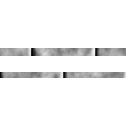
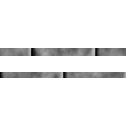
Smashing out wiindows

Changed region(s): [[0.0, 0.5625, 1.0, 0.625], [0.0, 0.375, 1.0, 0.4375]]

diff --git a/tactics_project/src/com/marklynch/editor/Editor.java b/tactics_project/src/com/marklynch/editor/Editor.java
@@ -418,35 +418,35 @@ public class Editor {
 				false, false, true, true, 1, 1));
 
 		shopFeatures.add(new GameObject("Shop Wall", 1000, "wall.png", Game.level.squares[6][5], new Inventory(), false,
-				false, false, false, false, true, 1, 1));
+				true, false, false, false, true, 1, 1));
 		shopFeatures.add(new GameObjectExploder("Shop Window", 10, "window.png", Game.level.squares[6][5],
 				new Inventory(), false, false, false, false, false, true, 1, 1));
 		shopFeatures.add(new GameObject("Shop Wall", 1000, "wall.png", Game.level.squares[7][5], new Inventory(), false,
-				false, false, false, false, true, 1, 1));
+				true, false, false, false, true, 1, 1));
 		shopFeatures.add(new GameObjectExploder("Shop Window", 10, "window.png", Game.level.squares[7][5],
 				new Inventory(), false, false, false, false, false, true, 1, 1));
 		shopFeatures.add(new GameObject("Shop Wall", 1000, "wall.png", Game.level.squares[9][5], new Inventory(), false,
-				false, false, false, false, true, 1, 1));
+				true, false, false, false, true, 1, 1));
 		shopFeatures.add(new GameObjectExploder("Shop Window", 10, "window.png", Game.level.squares[9][5],
 				new Inventory(), false, false, false, false, false, true, 1, 1));
 		shopFeatures.add(new GameObject("Shop Wall", 1000, "wall.png", Game.level.squares[10][5], new Inventory(),
-				false, false, false, false, false, true, 1, 1));
+				false, true, false, false, false, true, 1, 1));
 		shopFeatures.add(new GameObjectExploder("Shop Window", 10, "window.png", Game.level.squares[10][5],
 				new Inventory(), false, false, false, false, false, true, 1, 1));
 		shopFeatures.add(new GameObject("Shop Wall", 1000, "wall.png", Game.level.squares[12][5], new Inventory(),
-				false, false, false, false, false, true, 1, 1));
+				false, true, false, false, false, true, 1, 1));
 		shopFeatures.add(new GameObjectExploder("Shop Window", 10, "window.png", Game.level.squares[12][5],
 				new Inventory(), false, false, false, false, false, true, 1, 1));
 		shopFeatures.add(new GameObject("Shop Wall", 1000, "wall.png", Game.level.squares[13][5], new Inventory(),
-				false, false, false, false, false, true, 1, 1));
+				false, true, false, false, false, true, 1, 1));
 		shopFeatures.add(new GameObjectExploder("Shop Window", 10, "window.png", Game.level.squares[13][5],
 				new Inventory(), false, false, false, false, false, true, 1, 1));
 		shopFeatures.add(new GameObject("Shop Wall", 1000, "wall.png", Game.level.squares[15][5], new Inventory(),
-				false, false, false, false, false, true, 1, 1));
+				false, true, false, false, false, true, 1, 1));
 		shopFeatures.add(new GameObjectExploder("Shop Window", 10, "window.png", Game.level.squares[15][5],
 				new Inventory(), false, false, false, false, false, true, 1, 1));
 		shopFeatures.add(new GameObject("Shop Wall", 1000, "wall.png", Game.level.squares[16][5], new Inventory(),
-				false, false, false, false, false, true, 1, 1));
+				false, true, false, false, false, true, 1, 1));
 		shopFeatures.add(new GameObjectExploder("Shop Window", 10, "window.png", Game.level.squares[16][5],
 				new Inventory(), false, false, false, false, false, true, 1, 1));
 

diff --git a/tactics_project/src/com/marklynch/objects/actions/ActionAttack.java b/tactics_project/src/com/marklynch/objects/actions/ActionAttack.java
@@ -85,6 +85,10 @@ public class ActionAttack extends Action {
 	@Override
 	public boolean check() {
 
+		// System.out.println("!attacker.squaresVisibleToThisCharacter.contains(target.squareGameObjectIsOn)
+		// = "
+		// +
+		// !attacker.squaresVisibleToThisCharacter.contains(target.squareGameObjectIsOn));
 		if (!attacker.squaresVisibleToThisCharacter.contains(target.squareGameObjectIsOn))
 			return false;
 

diff --git a/tactics_project/src/com/marklynch/objects/Templates.java b/tactics_project/src/com/marklynch/objects/Templates.java
@@ -42,7 +42,7 @@ public class Templates {
 
 	// Bows
 	// https://en.wikipedia.org/wiki/Bow_and_arrow#Types_of_bow
-	public static final Weapon HUNTING_BOW = new Weapon("Hunting Bow", 3, 1, 3, "a2r2.png", 100, null, true, false,
+	public static final Weapon HUNTING_BOW = new Weapon("Hunting Bow", 1, 1, 4, "a2r2.png", 100, null, true, false,
 			false, false, 0.5f, 0.5f, 40, 42);
 
 	// Furniture

diff --git a/tactics_project/src/com/marklynch/notes/TODO.java b/tactics_project/src/com/marklynch/notes/TODO.java
@@ -2,6 +2,11 @@ package com.marklynch.notes;
 
 public class TODO {
 
+	// Should be able to smash window and climb through, want to make overlay
+	// image nice so that i can
+
+	// Setting bow to 20 range seems to have frozen the game...
+
 	// if u go beside door, but opposite side to ur attackers they wont go in
 	// and attack
 
